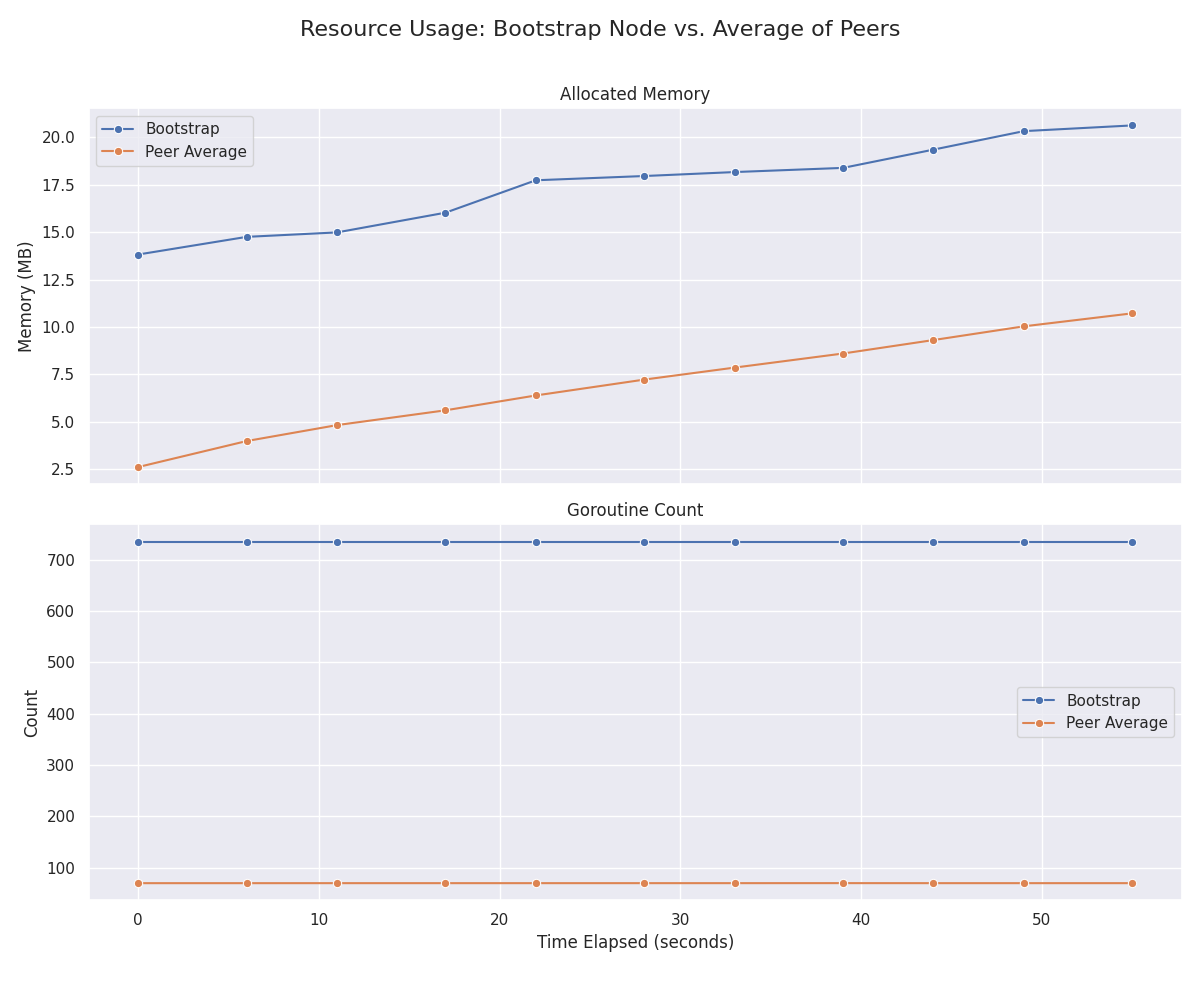
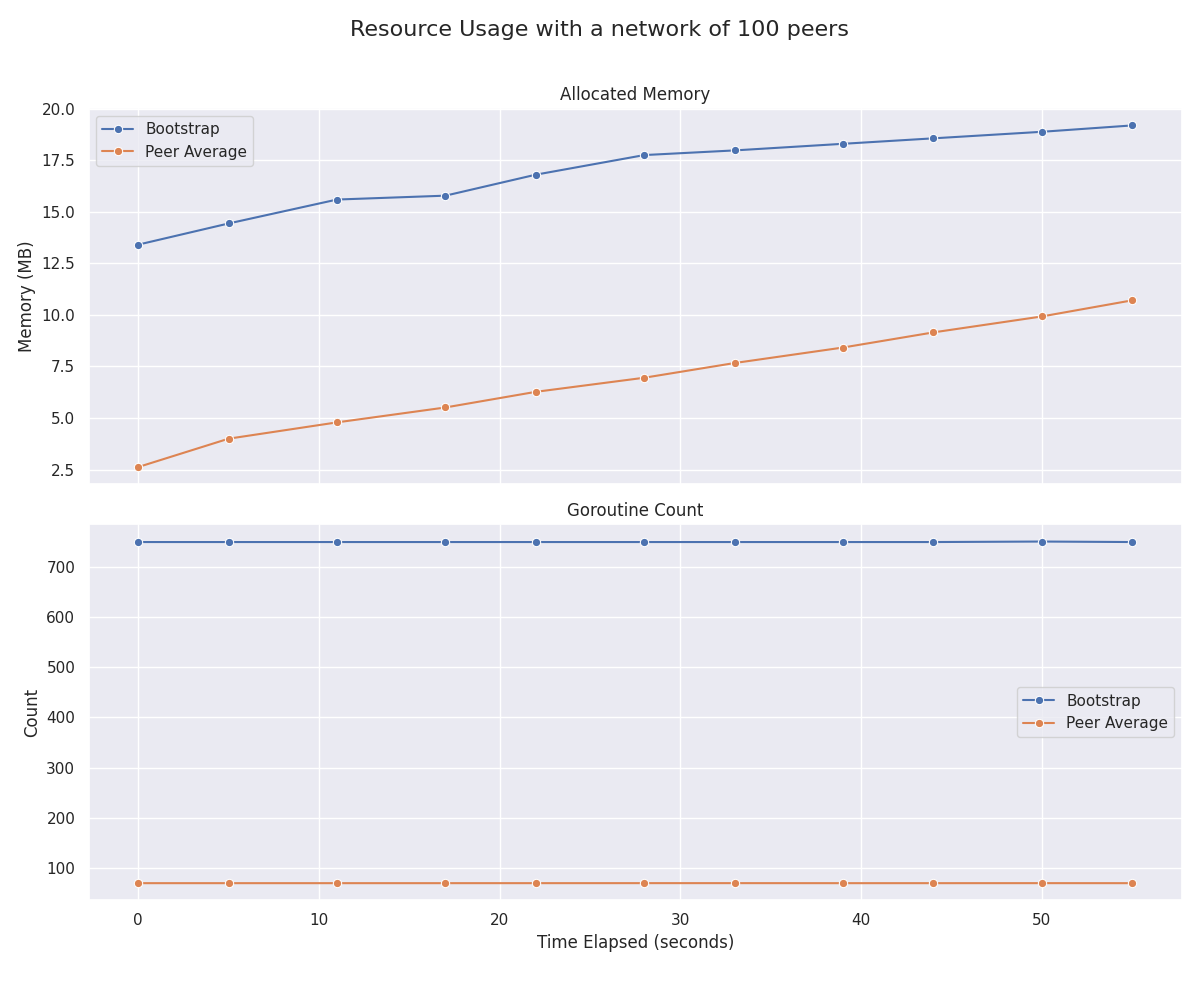
feat: img on readme, num peers on plot

diff --git a/experiments/simple.py b/experiments/simple.py
@@ -24,11 +24,12 @@ def main():
     """
     EXPERIMENT_DURATION_S = 60
     POLL_INTERVAL_S = 5
+    NUM_PEERS = 100
 
     with Mesh(
         image_name=const.IMAGE_NAME,
         network_name=const.NETWORK_NAME,
-        num_peers=100,
+        num_peers=NUM_PEERS, # my pc could handle only 250 nodes
         dockerfile_path=const.DOCKERFILE_PATH,
     ) as mesh:
         logging.info("Mesh deployed. Waiting 10 seconds for network to stabilize...")
@@ -84,7 +85,7 @@ def main():
         # Create plots
         sns.set_theme(style="darkgrid")
         fig, axes = plt.subplots(2, 1, figsize=(12, 10), sharex=True)
-        fig.suptitle("Resource Usage: Bootstrap Node vs. Average of Peers", fontsize=16)
+        fig.suptitle(f'Resource Usage with a network of {NUM_PEERS} peers', fontsize=16)
 
         # Memory Plot
         sns.lineplot(

diff --git a/README.md b/README.md
@@ -36,6 +36,12 @@ uv run experiments/simple.py
 
 Results will be stored at `./resource_comparison.png`
 
+You can change params under `experiments/simple.py` itself.
+
+> My PC could handle only 250 peers.
+
+![Alt text](./resource_comparison.png "Example (resource usage) with mesh of 100 peers")
+
 ## What is left to be a useful tool?
 
 1. Allow arbitrary configuration of daemon port settings.
